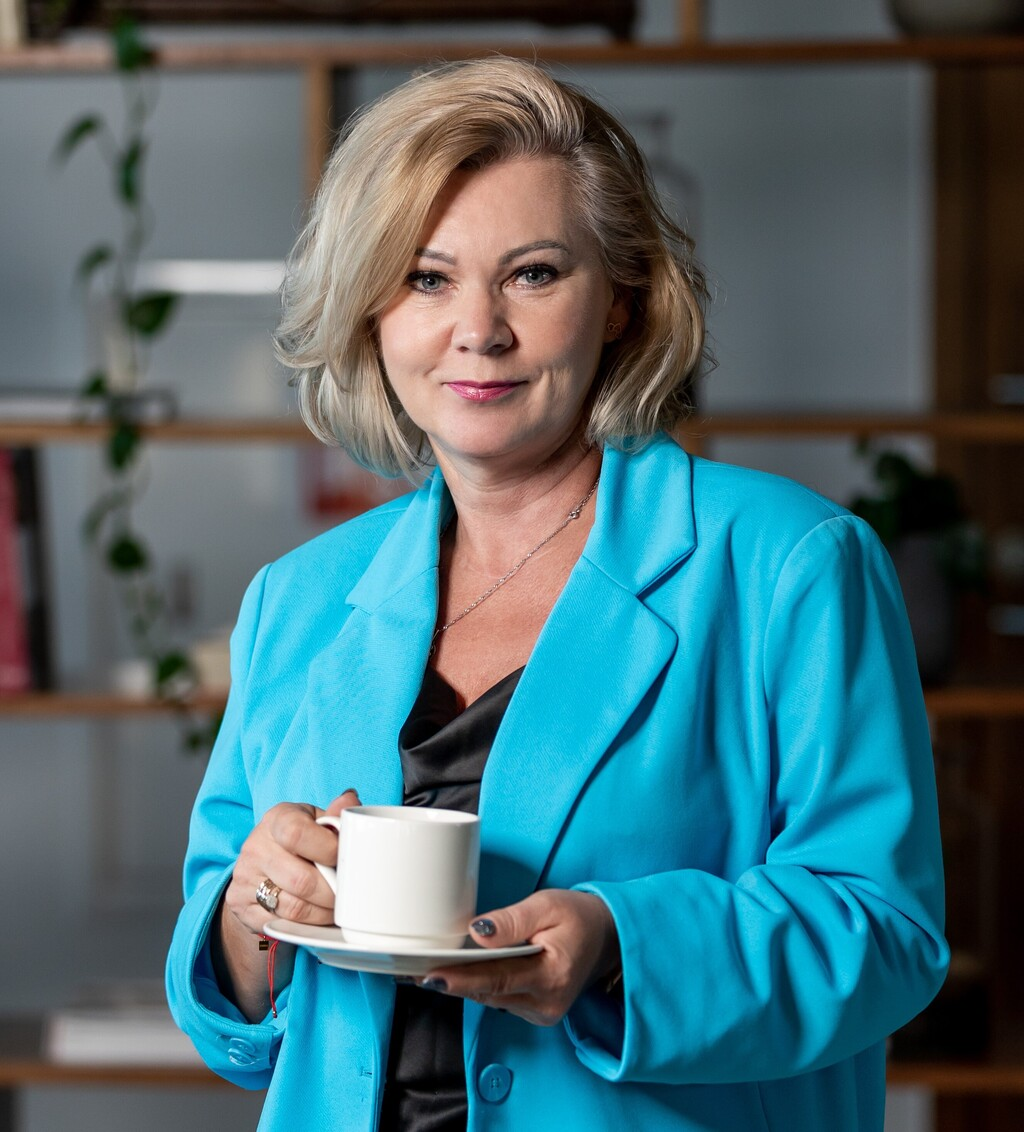
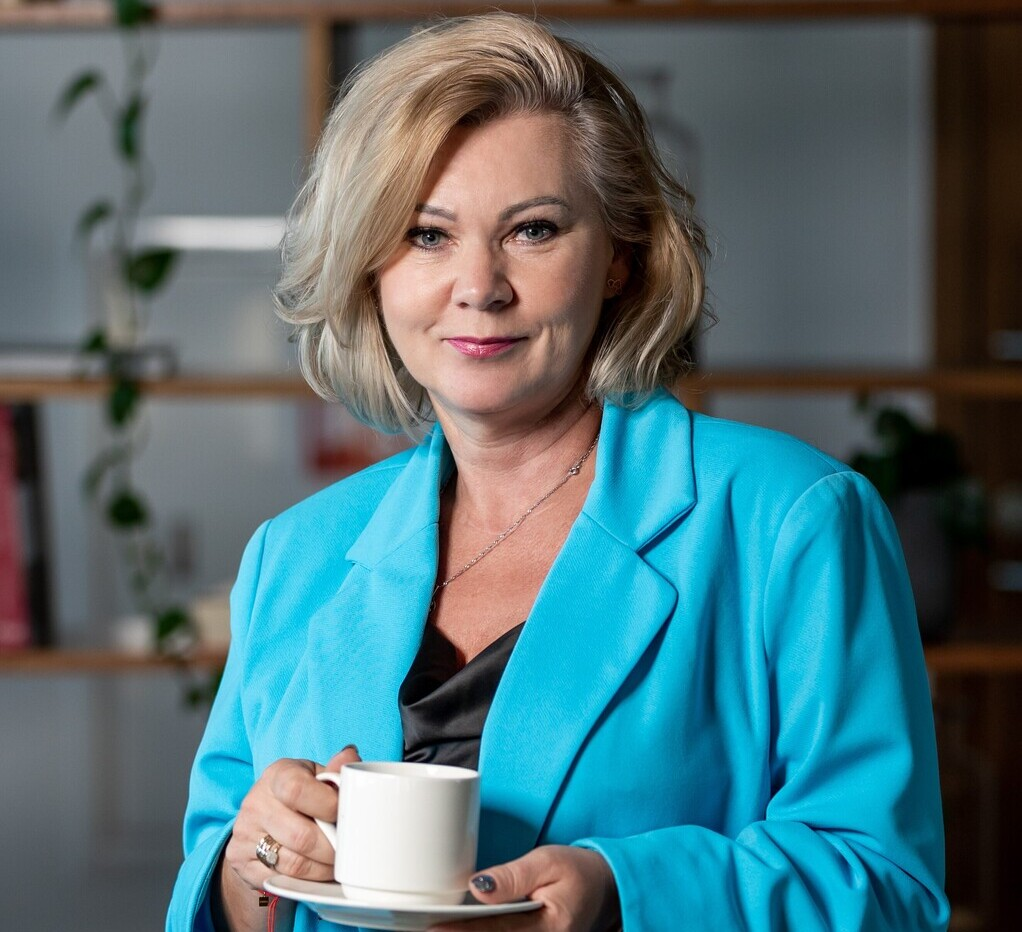
refactor(components/contact/card): use Joanna Makowska's image as card header

diff --git a/src/components/contact/card.tsx b/src/components/contact/card.tsx
@@ -1,9 +1,11 @@
 import { Card } from 'primereact/card'
+import Image from 'next/image'
 
 import { ContactLink } from './link'
 
 import { cardPassThrough } from '~/common/card-pass-through'
 import { useContact } from '~/hooks/api'
+import { joannaMakowskaPhoto } from '~/assets/images'
 
 export function ContactCard() {
   const { data } = useContact()
@@ -13,6 +15,18 @@ export function ContactCard() {
   return (
     <Card
       title="Kontakt"
+      header={
+        <Image
+          src={joannaMakowskaPhoto}
+          alt="Joanna Makowska's photo"
+          style={{
+            height: '20%',
+            borderTopLeftRadius: '0.5rem',
+            borderTopRightRadius: '0.5rem',
+          }}
+          className="h-5"
+        />
+      }
       pt={{
         ...cardPassThrough,
         content: {
